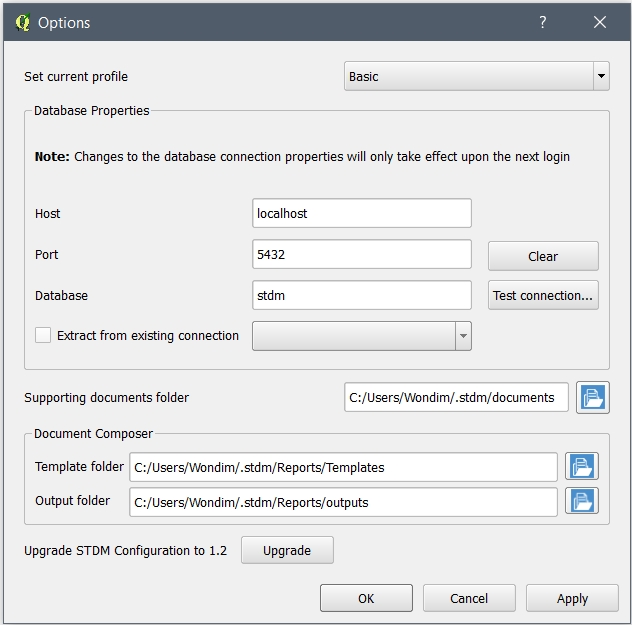
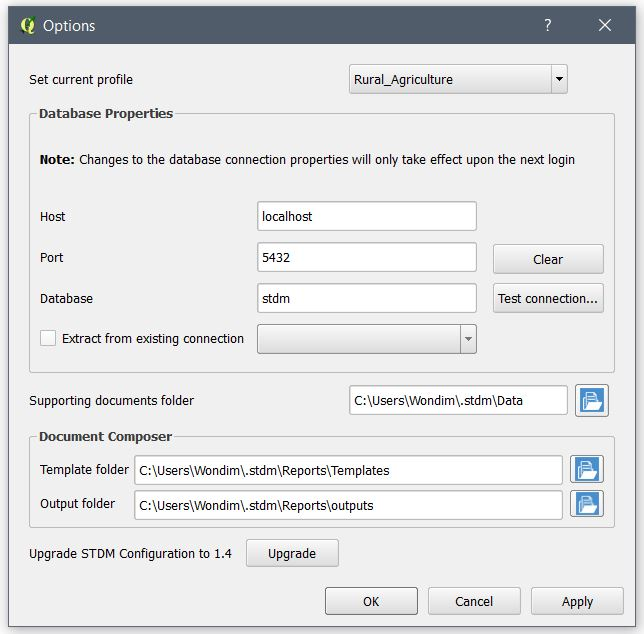
Updated the user guide, change log

Changed region(s): [[0.0, 0.0, 1.0, 1.0], [0.3908, 0.3344, 0.481, 0.3648], [0.7215, 0.3344, 0.7516, 0.3648]]

diff --git a/html/change_log.htm b/html/change_log.htm
@@ -22,12 +22,12 @@ visibility:hidden; }
 
 <body>
 
-<h1>What is New in Version 1.2?</h1>
+<h1>What is New in Version 1.4?</h1>
 
 <p class=MsoNormal><img width=768 height=376 id="Picture 1"
 src="image_files/image001.png"></p>
 
-<p>STDM 1.2 is a full release which includes enhanced functionality and 
+<p>STDM 1.4 is a full release which includes enhanced functionality and
  stability improvements. One special highlight is the complete redesign 
  of the database customization module; this not only improves the stability 
  of the system but also allows more data types to be defined by the
@@ -196,7 +196,8 @@ src="image_files/image001.png"></p>
 	<li><span><strong><strong style="font-weight: normal;">Editing database 
 	 connection properties;</strong></strong></span></li>
 	<li><strong style="font-weight: normal;">Path settings for supporting 
-	 documents, report templates and outputs.</strong></li>
+	 documents, report templates and outputs;</strong></li>
+ <li><strong style="font-weight: normal;">Upgrade old STDM configuration.</strong></li>
 </ul>
 <strong><img src="./image_files/options525359632.jpg" alt="" style="border: none;" width="545" height="539" border="0"> </strong>
 <h2><strong><strong style="font-weight: bold;">Migration from Previous 
@@ -214,7 +215,7 @@ src="image_files/image001.png"></p>
 
 <h2><strong><strong style="font-weight: bold;">General</strong></strong></h2>
 <p style="font-weight: normal;"><strong><strong style="font-weight: normal;">The 
- all-in-one installer for STDM 1.2 is built upon the following packages: 
+ all-in-one installer for STDM 1.4 is built upon the following packages:
  PostgreSQL v9.5, PostGIS 2.2 and QGIS 2.14. The new versions of these 
  dependencies not only provide improved stability and workflows, but also 
  include functional enhancements such as row-level security policies, new 

diff --git a/ui/ui_options.py b/ui/ui_options.py
@@ -81,7 +81,7 @@ class Ui_DlgOptions(object):
         self.btn_composer_out_folder.setIconSize(QtCore.QSize(24, 24))
         self.btn_composer_out_folder.setObjectName(_fromUtf8("btn_composer_out_folder"))
         self.gridLayout_4.addWidget(self.btn_composer_out_folder, 1, 2, 1, 1)
-        self.gridLayout_5.addWidget(self.groupBox_3, 4, 0, 1, 4)
+        self.gridLayout_5.addWidget(self.groupBox_3, 5, 0, 1, 5)
         self.groupBox = QtGui.QGroupBox(self.scrollAreaWidgetContents)
         self.groupBox.setObjectName(_fromUtf8("groupBox"))
         self.gridLayout_3 = QtGui.QGridLayout(self.groupBox)
@@ -148,34 +148,34 @@ class Ui_DlgOptions(object):
         spacerItem1 = QtGui.QSpacerItem(20, 40, QtGui.QSizePolicy.Minimum, QtGui.QSizePolicy.Expanding)
         self.gridLayout_2.addItem(spacerItem1, 3, 1, 1, 1)
         self.gridLayout_3.addWidget(self.frame, 1, 0, 2, 3)
-        self.gridLayout_5.addWidget(self.groupBox, 1, 0, 1, 4)
+        self.gridLayout_5.addWidget(self.groupBox, 2, 0, 1, 5)
+        self.label_9 = QtGui.QLabel(self.scrollAreaWidgetContents)
+        self.label_9.setObjectName(_fromUtf8("label_9"))
+        self.gridLayout_5.addWidget(self.label_9, 6, 0, 1, 1)
         self.label_6 = QtGui.QLabel(self.scrollAreaWidgetContents)
         self.label_6.setObjectName(_fromUtf8("label_6"))
-        self.gridLayout_5.addWidget(self.label_6, 2, 0, 1, 1)
-        self.cbo_profiles = QtGui.QComboBox(self.scrollAreaWidgetContents)
-        self.cbo_profiles.setMinimumSize(QtCore.QSize(0, 30))
-        self.cbo_profiles.setObjectName(_fromUtf8("cbo_profiles"))
-        self.gridLayout_5.addWidget(self.cbo_profiles, 0, 2, 1, 2)
+        self.gridLayout_5.addWidget(self.label_6, 3, 0, 1, 1)
         self.label = QtGui.QLabel(self.scrollAreaWidgetContents)
         self.label.setObjectName(_fromUtf8("label"))
         self.gridLayout_5.addWidget(self.label, 0, 0, 1, 1)
-        self.label_9 = QtGui.QLabel(self.scrollAreaWidgetContents)
-        self.label_9.setObjectName(_fromUtf8("label_9"))
-        self.gridLayout_5.addWidget(self.label_9, 5, 0, 1, 1)
         self.txtRepoLocation = QtGui.QLineEdit(self.scrollAreaWidgetContents)
         self.txtRepoLocation.setMinimumSize(QtCore.QSize(0, 30))
         self.txtRepoLocation.setMaxLength(500)
         self.txtRepoLocation.setReadOnly(True)
         self.txtRepoLocation.setObjectName(_fromUtf8("txtRepoLocation"))
-        self.gridLayout_5.addWidget(self.txtRepoLocation, 2, 2, 1, 1)
+        self.gridLayout_5.addWidget(self.txtRepoLocation, 3, 2, 1, 1)
         self.btn_supporting_docs = QtGui.QToolButton(self.scrollAreaWidgetContents)
         self.btn_supporting_docs.setIcon(icon)
         self.btn_supporting_docs.setIconSize(QtCore.QSize(24, 24))
         self.btn_supporting_docs.setObjectName(_fromUtf8("btn_supporting_docs"))
-        self.gridLayout_5.addWidget(self.btn_supporting_docs, 2, 3, 1, 1)
+        self.gridLayout_5.addWidget(self.btn_supporting_docs, 3, 3, 1, 1)
         self.upgradeButton = QtGui.QPushButton(self.scrollAreaWidgetContents)
         self.upgradeButton.setObjectName(_fromUtf8("upgradeButton"))
-        self.gridLayout_5.addWidget(self.upgradeButton, 5, 1, 1, 1)
+        self.gridLayout_5.addWidget(self.upgradeButton, 6, 1, 1, 1)
+        self.cbo_profiles = QtGui.QComboBox(self.scrollAreaWidgetContents)
+        self.cbo_profiles.setMinimumSize(QtCore.QSize(0, 30))
+        self.cbo_profiles.setObjectName(_fromUtf8("cbo_profiles"))
+        self.gridLayout_5.addWidget(self.cbo_profiles, 0, 2, 1, 1)
         self.scrollArea.setWidget(self.scrollAreaWidgetContents)
         self.verticalLayout.addWidget(self.scrollArea)
         self.buttonBox = QtGui.QDialogButtonBox(DlgOptions)
@@ -207,9 +207,9 @@ class Ui_DlgOptions(object):
         self.btn_db_conn_clear.setText(_translate("DlgOptions", "Clear", None))
         self.btn_test_db_connection.setToolTip(_translate("DlgOptions", "Test database connection", None))
         self.btn_test_db_connection.setText(_translate("DlgOptions", "Test connection...", None))
+        self.label_9.setText(_translate("DlgOptions", "Upgrade STDM Configuration to 1.4 ", None))
         self.label_6.setText(_translate("DlgOptions", "Supporting documents folder", None))
         self.label.setText(_translate("DlgOptions", "Set current profile", None))
-        self.label_9.setText(_translate("DlgOptions", "Upgrade STDM Configuration to 1.2 ", None))
         self.btn_supporting_docs.setToolTip(_translate("DlgOptions", "Choose supporting documents directory", None))
         self.btn_supporting_docs.setText(_translate("DlgOptions", "...", None))
         self.upgradeButton.setText(_translate("DlgOptions", "Upgrade", None))

diff --git a/settings/config_file_updater.py b/settings/config_file_updater.py
@@ -615,7 +615,7 @@ class ConfigurationFileUpdater(QDialog, Ui_UpgradePaths):
         :param config_file_name:
         :return:
         """
-        self.progress.progress_message('Creating STDM 1.2 configuration file', '')
+        self.progress.progress_message('Creating STDM 1.4 configuration file', '')
         self.config_file = QFile(os.path.join(self.file_handler.localPath(),
                                  config_file_name))
 
@@ -1241,7 +1241,7 @@ class ConfigurationFileUpdater(QDialog, Ui_UpgradePaths):
                         message = QApplication.translate(
                             'ConfigurationFileUpdater',
                             'Would you like to view the '
-                            'new features and changes of STDM 1.2?'
+                            'new features and changes of STDM 1.4?'
                         )
                         result, checkbox_result = simple_dialog(
                             self.iface.mainWindow(),

diff --git a/settings/template_updater.py b/settings/template_updater.py
@@ -593,7 +593,7 @@ class TemplateFileUpdater(
 
     def __init__(self, plugin_dir, old_new_tables, progress):
         """
-         Upgrades old profile templates to version 1.2 profiles.
+         Upgrades old profile templates to version 1.4 profiles.
         :param plugin_dir: The directory of STDM plugin
         :type plugin_dir: String
         :param prefix: The profile prefix of the upgraded profile

diff --git a/plugin.py b/plugin.py
@@ -659,7 +659,7 @@ class STDMQGISLoader(object):
                     {WIZARD_RUN: 1}
                 )
                 self.configuration_file_updater.append_log(
-                    'Successfully upgraded to STDM 1.2 configuration!'
+                    'Successfully migrated to STDM 1.4!'
                 )
                 return True
 
